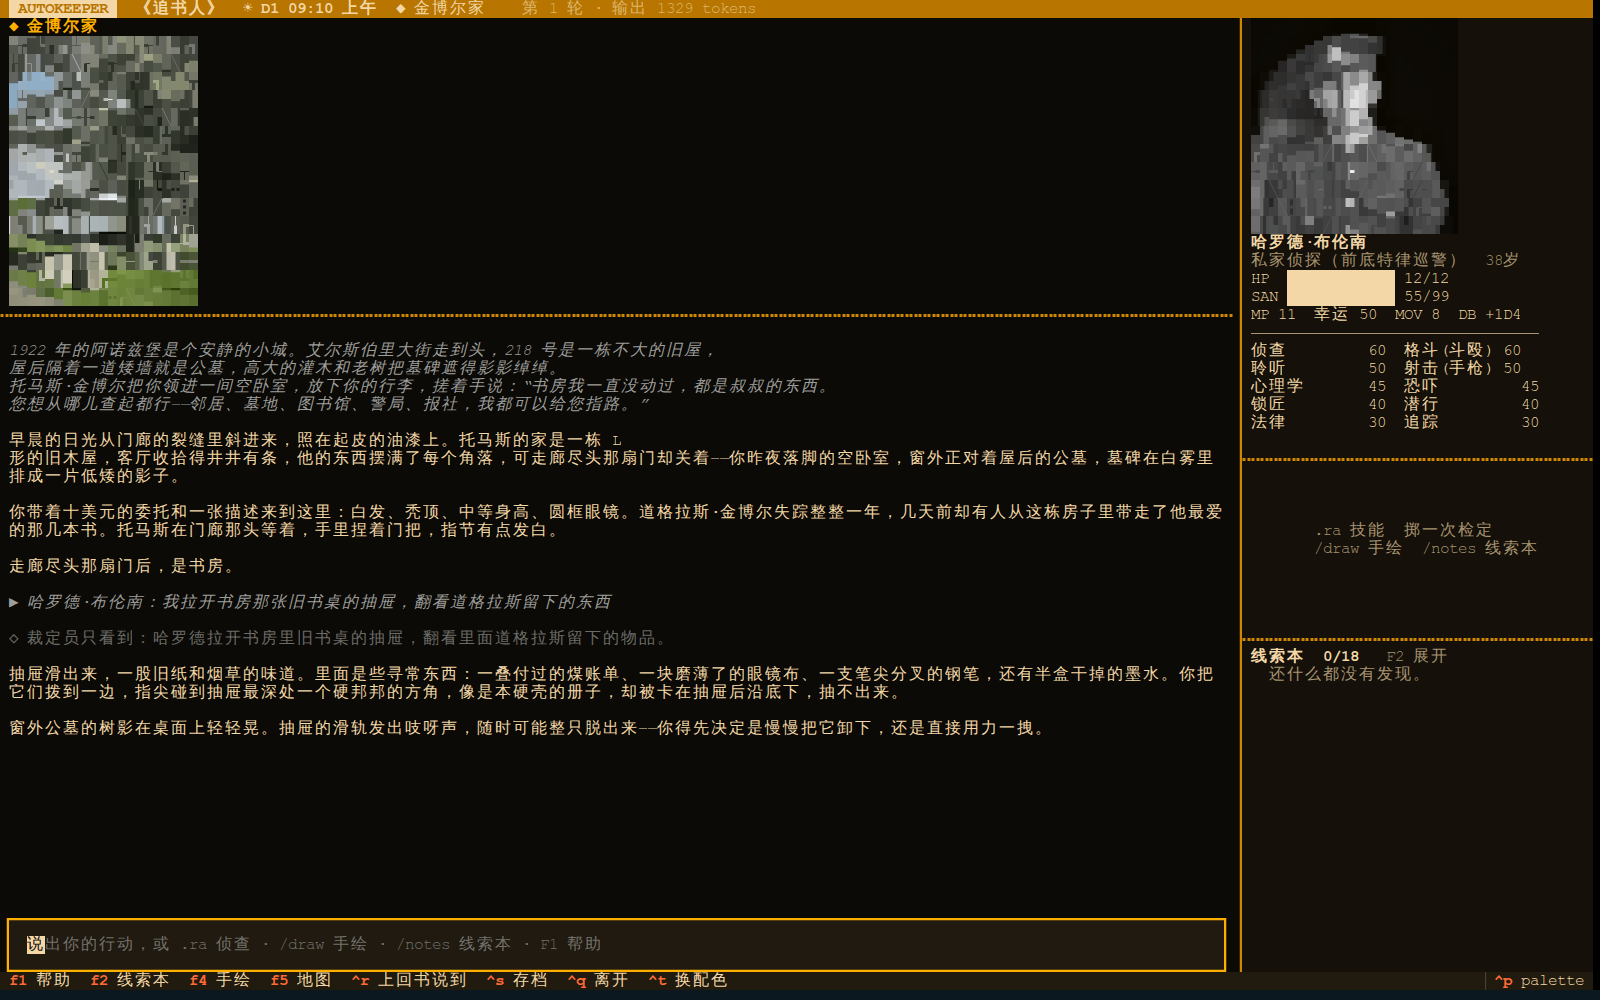
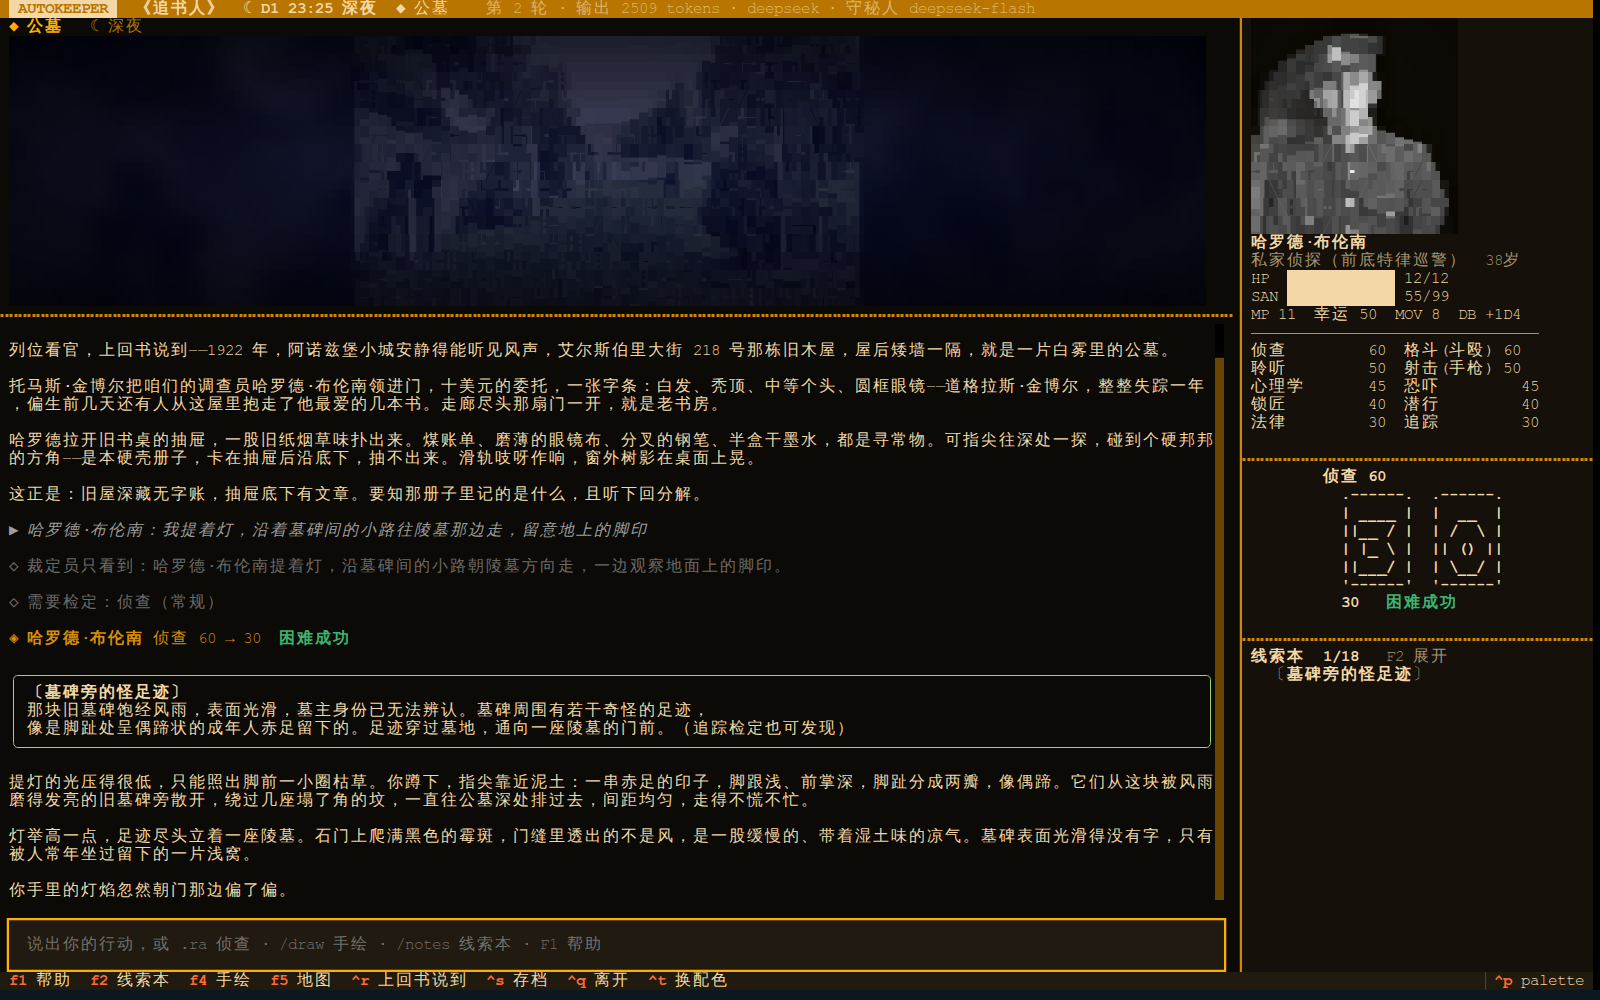
修复读档后游戏界面崩溃；读档列表默认选中；README 换成深夜公墓的实机图
- SceneArt 新加的 _render 和 Textual Widget 内部方法重名，读档进游戏界面时排版崩溃；
  改名为 _draw，并加了读档进入游戏的界面回归测试（深夜光照）
- 读档列表加宽，默认选中最新的存档
- 场景渲染任务交给 worker 时传函数而不是协程，不再留下未执行的协程
- 测试：夜里灯光色保持、照片铺满面板而主体完整
- 文档：临时故障与后台折叠；README 主图换成《追书人》深夜的公墓

diff --git a/tests/test_tui.py b/tests/test_tui.py
@@ -6,11 +6,17 @@ import shutil
 
 import pytest
 from PIL import Image
+from rich.text import Text
 
-from autokeeper import imagery
-from autokeeper.config import EXAMPLE
+from autokeeper import artkit, config, imagery
+from autokeeper.config import EXAMPLE, Role
+from autokeeper.engine.game import Game
+from autokeeper.harness import Reply
+from autokeeper.harness import models as hm
+from autokeeper.module.schema import Module
 from autokeeper.tui import app as tui
-from autokeeper.tui.app import AutoKeeperApp, SetupScreen, TitleScreen
+from autokeeper.tui.app import AutoKeeperApp, GameScreen, LoadScreen, SetupScreen, TitleScreen
+from autokeeper.tui.widgets import SceneArt
 
 
 @pytest.mark.parametrize("size", [(140, 44), (80, 24)])
@@ -29,6 +35,56 @@ async def test_title_and_setup_flow(monkeypatch, size):
         await pilot.press("enter")
         await pilot.pause()
         assert app.screen.step == "companions"
+
+
+class Canned(hm.Model):
+    async def _call(self, messages, *, schema, images, on_delta):
+        text = "上回书说到，诸位还在钟楼底下。"
+        if on_delta:
+            await on_delta(text)
+        return Reply(text=text, data={} if schema else None)
+
+
+async def test_loading_a_save_opens_the_game_at_night(monkeypatch, tmp_path):
+    monkeypatch.setattr(config, "SAVES", tmp_path)
+    monkeypatch.setattr(tui, "modules", lambda: [EXAMPLE])
+    monkeypatch.setitem(hm.MODELS, "canned", Canned)
+    cfg = config.Config(roles={r: Role("canned", "canned", None) for r in config.DEFAULT_ROLES})
+    monkeypatch.setattr(config, "load", lambda *a, **k: cfg)
+    m = Module.load(EXAMPLE)
+    lead = m.pregens[0].model_copy(deep=True)
+    state = Game.new(m, [lead], slot="night", human=[lead.id])
+    state.minutes = 23 * 60 + 10
+    tui.write_save(state, m)
+    app = AutoKeeperApp(theme="amber")
+    async with app.run_test(size=(140, 44)) as pilot:
+        await pilot.pause()
+        await pilot.press("down", "enter")  # 继续调查
+        await pilot.pause()
+        assert isinstance(app.screen, LoadScreen)
+        await pilot.press("enter")  # the newest save is highlighted
+        await pilot.pause(0.5)
+        assert isinstance(app.screen, GameScreen)
+        scene = app.screen.query_one(SceneArt)
+        assert scene.when == "深夜" and scene.place
+
+
+def test_ascii_art_keeps_lamplight_after_dark():
+    lit = artkit.colorize("#", "Y", when="深夜")
+    dim = artkit.colorize("|", "n", when="深夜")
+    assert str(lit.spans[0].style) == artkit.PALETTE["Y"]  # a lit window stays amber
+    assert str(dim.spans[0].style) != artkit.PALETTE["n"]  # wood darkens at night
+
+
+@pytest.mark.skipif(shutil.which("chafa") is None, reason="chafa not installed")
+def test_scene_picture_fills_the_panel_without_losing_the_subject(tmp_path):
+    img = tmp_path / "tall.png"
+    Image.new("RGB", (200, 300), (180, 60, 40)).save(img)
+    framed = imagery.frame(Image.open(img).convert("RGB"), 80, 15)
+    assert abs(framed.width / framed.height - 80 * 0.5 / 15) < 0.05  # the panel's shape
+    assert framed.getpixel((framed.width // 2, framed.height // 2)) == (180, 60, 40)  # subject intact
+    out = imagery.render(str(img), 80, 15, "picture", "深夜", True)
+    assert max(len(Text.from_ansi(line).plain) for line in out.split("\n")) >= 70
 
 
 @pytest.mark.skipif(shutil.which("chafa") is None, reason="chafa not installed")

diff --git a/src/autokeeper/tui/widgets.py b/src/autokeeper/tui/widgets.py
@@ -4,6 +4,7 @@ from __future__ import annotations
 
 import asyncio
 import random
+from functools import partial
 
 from rich.console import Group
 from rich.text import Text
@@ -75,7 +76,7 @@ class SceneArt(Static):
     def _uses_image(self) -> bool:
         return bool(self.image) and imagery.available()
 
-    def _render(self, rate: float = 0.0) -> Text:
+    def _draw(self, rate: float = 0.0) -> Text:
         """The art alone, lit and centred. Pictures go through chafa, so call off the UI thread."""
         w, h = self._fit()
         if self._uses_image():
@@ -95,7 +96,7 @@ class SceneArt(Static):
         if frame is not None:
             art_text = center(Text.from_ansi(frame), self._fit()[0])
         elif rate or self._art is None:
-            art_text = self._render(rate) if not self._uses_image() else (self._art or Text())
+            art_text = self._draw(rate) if not self._uses_image() else (self._art or Text())
         else:
             art_text = self._art
         if rows is not None:  # scan-in: the rows below the beam are still dark
@@ -105,10 +106,10 @@ class SceneArt(Static):
         self.update(Text("\n").join([self._title(), art_text]))
 
     def _refresh(self, reveal: bool = False) -> None:
-        self.run_worker(self._load(reveal), exclusive=True, group="art")
+        self.run_worker(partial(self._load, reveal), exclusive=True, group="art")
 
     async def _load(self, reveal: bool) -> None:
-        self._art = await asyncio.to_thread(self._render)
+        self._art = await asyncio.to_thread(self._draw)
         if reveal:
             total = len(self._art.split("\n"))
             for rows in range(0, total, 2):
@@ -119,7 +120,7 @@ class SceneArt(Static):
     def glitch(self, frames: int = 14) -> None:
         self.add_class("dread")
         if self._uses_image():
-            self.run_worker(self._picture_glitch(min(8, max(3, frames // 3))), exclusive=True, group="art")
+            self.run_worker(partial(self._picture_glitch, min(8, max(3, frames // 3))), exclusive=True, group="art")
             return
         self._burst = frames
         self._tick()
@@ -147,7 +148,7 @@ class SceneArt(Static):
         if self._burst or self.madness <= 0 or random.random() > self.madness:
             return
         if self._uses_image():
-            self.run_worker(self._picture_glitch(2), exclusive=True, group="glitch")
+            self.run_worker(partial(self._picture_glitch, 2), exclusive=True, group="art")
             return
         self._paint(0.03 + self.madness * 0.08)
         self.set_timer(0.12, self._paint)

diff --git a/src/autokeeper/tui/app.py b/src/autokeeper/tui/app.py
@@ -301,7 +301,7 @@ class LoadScreen(Screen):
     def compose(self) -> ComposeResult:
         with Vertical(id="setup"):
             yield Static(Text("继续调查", style="bold"), id="setup-title")
-            yield OptionList(id="choices")
+            yield OptionList(id="choices", classes="saves")
             yield Static("Enter 读档 · Esc 返回", id="setup-hint")
         yield Footer()
 
@@ -315,6 +315,8 @@ class LoadScreen(Screen):
             ol.add_option(Option(f"{label}   [{meta['updated']}]", id=slot))
         if not idx:
             ol.add_option(Option("还没有存档", disabled=True))
+        else:
+            ol.highlighted = 0  # Enter loads the newest save straight away
         ol.focus()
 
     @on(OptionList.OptionSelected, "#choices")

diff --git a/README.md b/README.md
@@ -43,23 +43,26 @@
   - LightRAG 知识图谱，原文抽出的实体和结构化模组图谱合在同一张图里。
 - **一套引擎，三种入口**：Textual TUI、浏览器（textual-serve）、MCP 服务。Claude Code 和 Codex 可以直接把游戏引擎当工具，自己当守秘人。
 - **彩色 ASCII 美术**：
-  - 场景、人物、手稿都是“图 + 同形状配色蒙版”；
-  - 理智下降时画面会故障；
+  - 场景、人物、手稿都是“图 + 同形状配色蒙版”；也可以用 chafa 把实景照片转成块字符；
+  - 画面按游戏时间打光，从清晨到深夜共七档。照片调曝光、色调、加暗角；手绘线条只压暗一半，保证看得清；入夜后窗和灯反而更亮；
+  - 照片不硬裁，主体完整居中，两侧用模糊压暗的同图铺满；
+  - 进入新地点时画面逐行扫描显现，理智下降时画面会故障；
   - 可以用鼠标手绘，交给读图员（VLM）判断画得像不像。
 
 ## 演示
 
-<p align="center"><img src="docs/img/game.png" width="100%" alt="《追书人》游戏画面"></p>
+<p align="center"><img src="docs/img/game.png" width="100%" alt="《追书人》深夜的公墓"></p>
 
-| 选模组 | 场景图与配色蒙版 | 人物头像 |
-|---|---|---|
-| <img src="docs/img/module.png" alt="选模组"> | <img src="docs/img/scenes.png" alt="场景图"> | <img src="docs/img/portraits.png" alt="头像"> |
+| 选模组 | 白天的书房 | 手绘 ASCII：场景与配色蒙版 | 人物头像 |
+|---|---|---|---|
+| <img src="docs/img/module.png" alt="选模组"> | <img src="docs/img/game_day.png" alt="白天的书房"> | <img src="docs/img/scenes.png" alt="场景图"> | <img src="docs/img/portraits.png" alt="头像"> |
 
-> - **主图**：《追书人》（CoC 7 版入门模组）在 `--preset deepseek` 下的实机画面。
->   - 左上是用 chafa 转成字符画的实景照片；
->   - “裁定员只看到”那一行，是 intent 改写后交给 arbiter 的中立行动；
->   - 右侧是人物卡和线索本。
-> - **场景图和头像**：来自用 `autokeeper generate` 生成的原创模组《多一人》。
+> - **主图**：《追书人》（CoC 7 版入门模组）读档后在深夜的公墓里，`--preset deepseek`。
+>   - 场景是用 chafa 转成字符画的实景照片，按游戏时间打光：深夜偏暗蓝，四角压暗；
+>   - 说书人先用评书腔讲“上回书说到”；
+>   - 一回合依次是：玩家行动 → “裁定员只看到”的中立行动 → 侦查检定，BCDice 掷出 30，困难成功 → 线索卡 → 守秘人叙事。
+> - **白天的书房**：同一模组的上午。
+> - **手绘场景和头像**：来自用 `autokeeper generate` 生成的原创模组《多一人》。
 > - 仓库不附带任何官方模组。
 
 ## Harness
